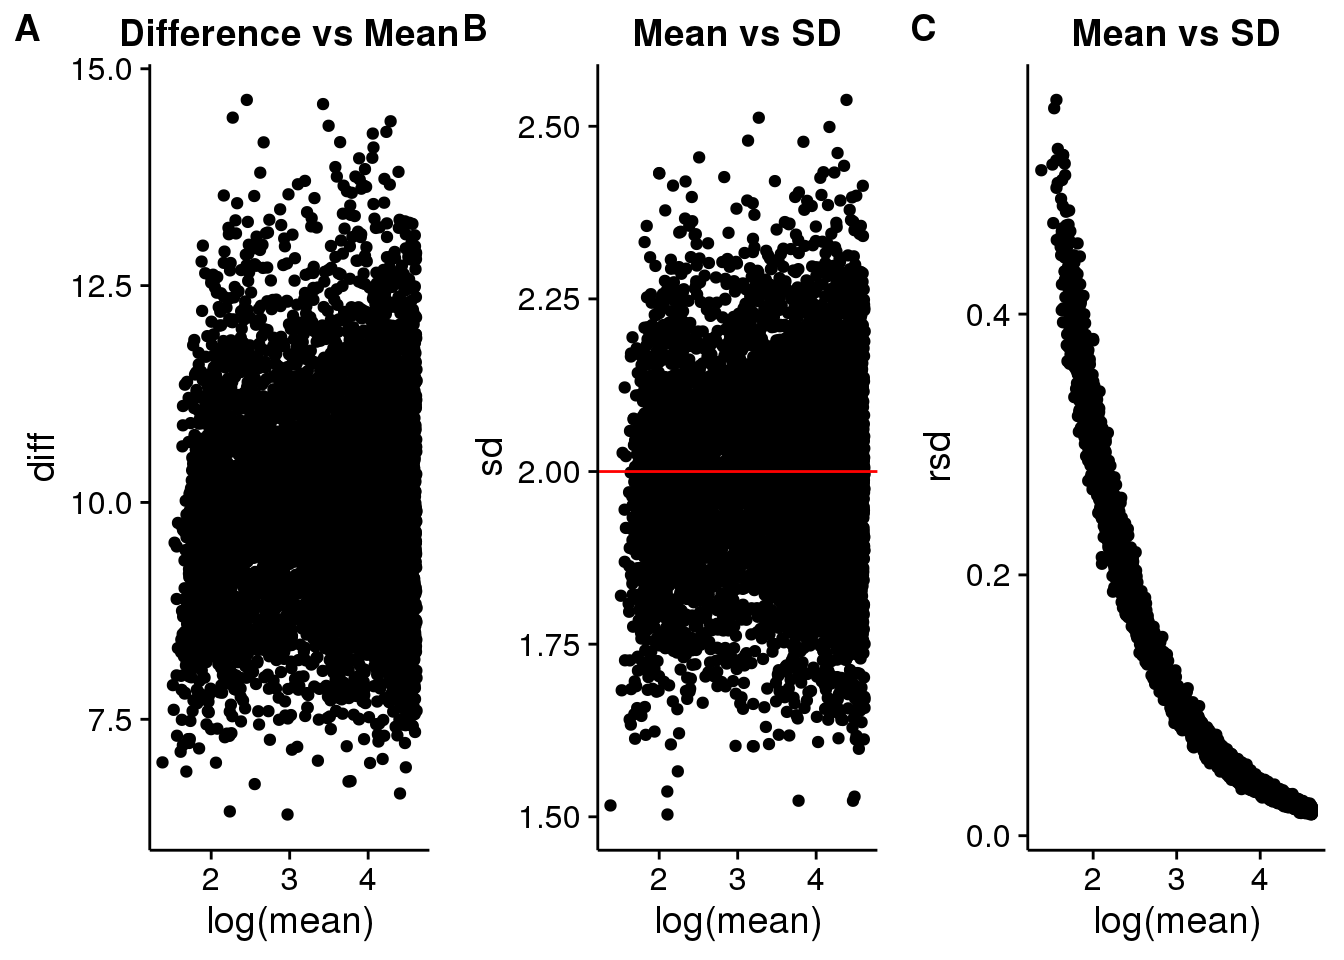
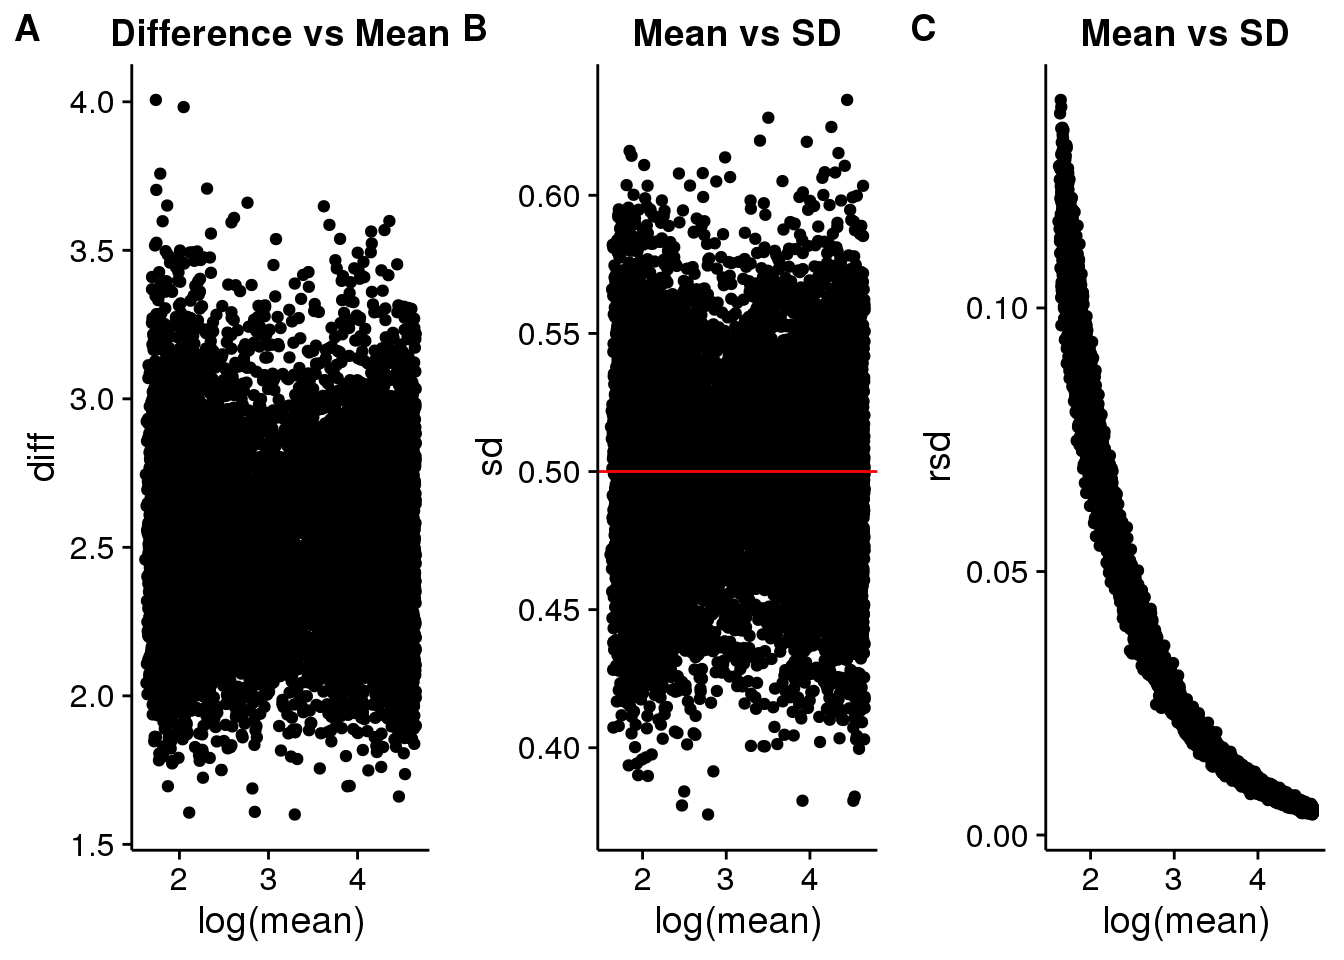
rendering with new scalings and transformations, new sd and overall range

diff --git a/glbio2016_manuscript.knit.md b/glbio2016_manuscript.knit.md
@@ -1,8 +1,8 @@
 ---
 title: "Visualizing Effect of Data Transformations on Errors"
 author: "Robert M Flight"
-date: "2016-01-13 11:53:34"
-commit: "4b8af5ca"
+date: "2016-01-18 21:49:31"
+commit: "dba40017"
 output: html_document
 ---
 
@@ -70,7 +70,7 @@ below **1** (`minone`).
 
 
 
-Additive error was added where the standard deviation was 2. A plot
+Additive error was added where the standard deviation was 0.5. A plot
 of two replicates is shown in Figure X.
 
 ### Proportional Error
@@ -85,11 +85,12 @@ plot of two replicates is shown in Figure X.
 
 
 Mixture of additive and proportional error was added with standard deviations
-of 2 and 0.1 respectively.
+of 0.5 and 0.1 respectively.
+
 
 ## Transformations
 
-The transformations applied to the data include variance scaling, the
+The transformations applied to the data include variance and pareto scaling, the
 log-transform (log10), and power transform (root 2 and 5).
 
 # Results
@@ -135,6 +136,38 @@ With no transformation, **all** of the data have a **log-normal** distribution.
 
 <img src="glbio2016_manuscript_files/figure-html/mix_plot-1.png" title="" alt="" width="672" />
 
+## Variance (Auto) Scaling
+
+Applying a variance or auto scaling to the data results in:
+
+### Additive
+
+<img src="glbio2016_manuscript_files/figure-html/auto_additive-1.png" title="" alt="" width="672" />
+
+### Proportional
+
+<img src="glbio2016_manuscript_files/figure-html/auto_proportional-1.png" title="" alt="" width="672" />
+
+### Mixed
+
+<img src="glbio2016_manuscript_files/figure-html/auto_mixed-1.png" title="" alt="" width="672" />
+
+
+## Pareto Scaling
+
+### Additive
+
+<img src="glbio2016_manuscript_files/figure-html/pareto_add-1.png" title="" alt="" width="672" />
+
+### Proportional
+
+<img src="glbio2016_manuscript_files/figure-html/pareto_prop-1.png" title="" alt="" width="672" />
+
+### Mixed
+
+<img src="glbio2016_manuscript_files/figure-html/pareto_mixed-1.png" title="" alt="" width="672" />
+
+
 ## Log Transformation
 
 Applying the **log-transform** to the data results in:
@@ -146,11 +179,6 @@ Applying the **log-transform** to the data results in:
 <img src="glbio2016_manuscript_files/figure-html/log_add_error-1.png" title="" alt="" width="672" />
 
 ### Proportional Error
-
-
-```
-## Warning: Removed 234 rows containing missing values (geom_point).
-```
 
 <img src="glbio2016_manuscript_files/figure-html/log_prop_error-1.png" title="" alt="" width="672" />
 
@@ -194,53 +222,53 @@ a higher root may be useful.
 ##  language (EN)                        
 ##  collate  en_US.UTF-8                 
 ##  tz       America/New_York            
-##  date     2016-01-13
+##  date     2016-01-18
 ```
 
 
 
-|package                     |*  |version     |date       |source                                   |
-|:---------------------------|:--|:-----------|:----------|:----------------------------------------|
-|assertthat                  |   |0.1         |2013-12-06 |CRAN (R 3.2.2)                           |
-|circlize                    |   |0.3.2       |2015-10-21 |CRAN (R 3.2.2)                           |
-|colorspace                  |   |1.2-6       |2015-03-11 |CRAN (R 3.2.2)                           |
-|ComplexHeatmap              |   |1.7.1       |2015-10-10 |Github (jokergoo/ComplexHeatmap@e502955) |
-|cowplot                     |*  |0.6.0       |2015-12-19 |CRAN (R 3.2.2)                           |
-|DBI                         |   |0.3.1       |2014-09-24 |CRAN (R 3.2.2)                           |
-|dendextend                  |   |1.1.2       |2015-10-31 |CRAN (R 3.2.2)                           |
-|dendsort                    |   |0.3.3       |2015-12-14 |CRAN (R 3.2.2)                           |
-|devtools                    |   |1.9.1.9000  |2015-11-18 |Github (hadley/devtools@b4edf3e)         |
-|digest                      |   |0.6.9       |2016-01-08 |CRAN (R 3.2.3)                           |
-|dplyr                       |*  |0.4.3       |2015-09-01 |CRAN (R 3.2.2)                           |
-|evaluate                    |   |0.8         |2015-09-18 |CRAN (R 3.2.2)                           |
-|fakeDataWithError           |*  |0.0.1       |2015-10-19 |local                                    |
-|formatR                     |   |1.2.1       |2015-09-18 |CRAN (R 3.2.2)                           |
-|GetoptLong                  |   |0.1.0       |2015-03-09 |CRAN (R 3.2.2)                           |
-|ggbiplot                    |   |0.55        |2015-10-19 |Github (rmflight/ggbiplot@7325e88)       |
-|ggplot2                     |*  |2.0.0       |2015-12-18 |CRAN (R 3.2.2)                           |
-|git2r                       |   |0.11.0.9000 |2015-10-15 |Github (ropensci/git2r@7414c11)          |
-|GlobalOptions               |   |0.0.8       |2015-08-18 |CRAN (R 3.2.2)                           |
-|gtable                      |   |0.1.2       |2012-12-05 |CRAN (R 3.2.2)                           |
-|htmltools                   |   |0.2.6       |2014-09-08 |CRAN (R 3.2.2)                           |
-|knitr                       |   |1.11        |2015-08-14 |CRAN (R 3.2.2)                           |
-|labeling                    |   |0.3         |2014-08-23 |CRAN (R 3.2.2)                           |
-|lazyeval                    |   |0.1.10      |2015-01-02 |CRAN (R 3.2.2)                           |
-|magrittr                    |   |1.5         |2014-11-22 |CRAN (R 3.2.2)                           |
-|memoise                     |   |0.2.1       |2014-04-22 |CRAN (R 3.2.2)                           |
-|munsell                     |   |0.4.2       |2013-07-11 |CRAN (R 3.2.2)                           |
-|plyr                        |   |1.8.3       |2015-06-12 |CRAN (R 3.2.2)                           |
-|R6                          |   |2.1.1       |2015-08-19 |CRAN (R 3.2.2)                           |
-|RColorBrewer                |   |1.1-2       |2014-12-07 |CRAN (R 3.2.2)                           |
-|Rcpp                        |   |0.12.3      |2016-01-10 |CRAN (R 3.2.3)                           |
-|rjson                       |   |0.2.15      |2014-11-03 |CRAN (R 3.2.2)                           |
-|rmarkdown                   |   |0.9.2       |2016-01-01 |CRAN (R 3.2.3)                           |
-|scales                      |   |0.3.0       |2015-08-25 |CRAN (R 3.2.2)                           |
-|shape                       |   |1.4.2       |2014-11-05 |CRAN (R 3.2.2)                           |
-|stringi                     |   |1.0-1       |2015-10-22 |CRAN (R 3.2.2)                           |
-|stringr                     |   |1.0.0       |2015-04-30 |CRAN (R 3.2.2)                           |
-|visualizationQualityControl |*  |0.0.26      |2016-01-08 |local                                    |
-|whisker                     |   |0.3-2       |2013-04-28 |CRAN (R 3.2.2)                           |
-|yaml                        |   |2.1.13      |2014-06-12 |CRAN (R 3.2.2)                           |
+|package                     |*  |version    |date       |source                                   |
+|:---------------------------|:--|:----------|:----------|:----------------------------------------|
+|assertthat                  |   |0.1        |2013-12-06 |CRAN (R 3.2.2)                           |
+|circlize                    |   |0.3.2      |2015-10-21 |CRAN (R 3.2.2)                           |
+|colorspace                  |   |1.2-6      |2015-03-11 |CRAN (R 3.2.2)                           |
+|ComplexHeatmap              |   |1.7.1      |2015-10-10 |Github (jokergoo/ComplexHeatmap@e502955) |
+|cowplot                     |*  |0.6.0      |2015-12-19 |CRAN (R 3.2.2)                           |
+|DBI                         |   |0.3.1      |2014-09-24 |CRAN (R 3.2.2)                           |
+|dendextend                  |   |1.1.2      |2015-10-31 |CRAN (R 3.2.2)                           |
+|dendsort                    |   |0.3.3      |2015-12-14 |CRAN (R 3.2.2)                           |
+|devtools                    |   |1.9.1.9000 |2016-01-15 |local                                    |
+|digest                      |   |0.6.9      |2016-01-08 |CRAN (R 3.2.3)                           |
+|dplyr                       |*  |0.4.3      |2015-09-01 |CRAN (R 3.2.2)                           |
+|evaluate                    |   |0.8        |2015-09-18 |CRAN (R 3.2.2)                           |
+|fakeDataWithError           |*  |0.0.1      |2015-10-19 |local                                    |
+|formatR                     |   |1.2.1      |2015-09-18 |CRAN (R 3.2.2)                           |
+|GetoptLong                  |   |0.1.0      |2015-03-09 |CRAN (R 3.2.2)                           |
+|ggbiplot                    |   |0.55       |2015-10-19 |Github (rmflight/ggbiplot@7325e88)       |
+|ggplot2                     |*  |2.0.0      |2015-12-18 |CRAN (R 3.2.2)                           |
+|git2r                       |   |0.13.1     |2015-12-10 |CRAN (R 3.2.3)                           |
+|GlobalOptions               |   |0.0.8      |2015-08-18 |CRAN (R 3.2.2)                           |
+|gtable                      |   |0.1.2      |2012-12-05 |CRAN (R 3.2.2)                           |
+|htmltools                   |   |0.2.6      |2014-09-08 |CRAN (R 3.2.2)                           |
+|knitr                       |   |1.12       |2016-01-07 |CRAN (R 3.2.3)                           |
+|labeling                    |   |0.3        |2014-08-23 |CRAN (R 3.2.2)                           |
+|lazyeval                    |   |0.1.10     |2015-01-02 |CRAN (R 3.2.2)                           |
+|magrittr                    |   |1.5        |2014-11-22 |CRAN (R 3.2.2)                           |
+|memoise                     |   |0.2.1      |2014-04-22 |CRAN (R 3.2.2)                           |
+|munsell                     |   |0.4.2      |2013-07-11 |CRAN (R 3.2.2)                           |
+|plyr                        |   |1.8.3      |2015-06-12 |CRAN (R 3.2.2)                           |
+|R6                          |   |2.1.1      |2015-08-19 |CRAN (R 3.2.2)                           |
+|RColorBrewer                |   |1.1-2      |2014-12-07 |CRAN (R 3.2.2)                           |
+|Rcpp                        |   |0.12.3     |2016-01-10 |CRAN (R 3.2.3)                           |
+|rjson                       |   |0.2.15     |2014-11-03 |CRAN (R 3.2.2)                           |
+|rmarkdown                   |   |0.9.2      |2016-01-01 |CRAN (R 3.2.3)                           |
+|scales                      |   |0.3.0      |2015-08-25 |CRAN (R 3.2.2)                           |
+|shape                       |   |1.4.2      |2014-11-05 |CRAN (R 3.2.2)                           |
+|stringi                     |   |1.0-1      |2015-10-22 |CRAN (R 3.2.2)                           |
+|stringr                     |   |1.0.0      |2015-04-30 |CRAN (R 3.2.2)                           |
+|visualizationQualityControl |*  |0.0.26     |2016-01-08 |local                                    |
+|whisker                     |   |0.3-2      |2013-04-28 |CRAN (R 3.2.2)                           |
+|yaml                        |   |2.1.13     |2014-06-12 |CRAN (R 3.2.2)                           |
 
 
 # Create Markdown
